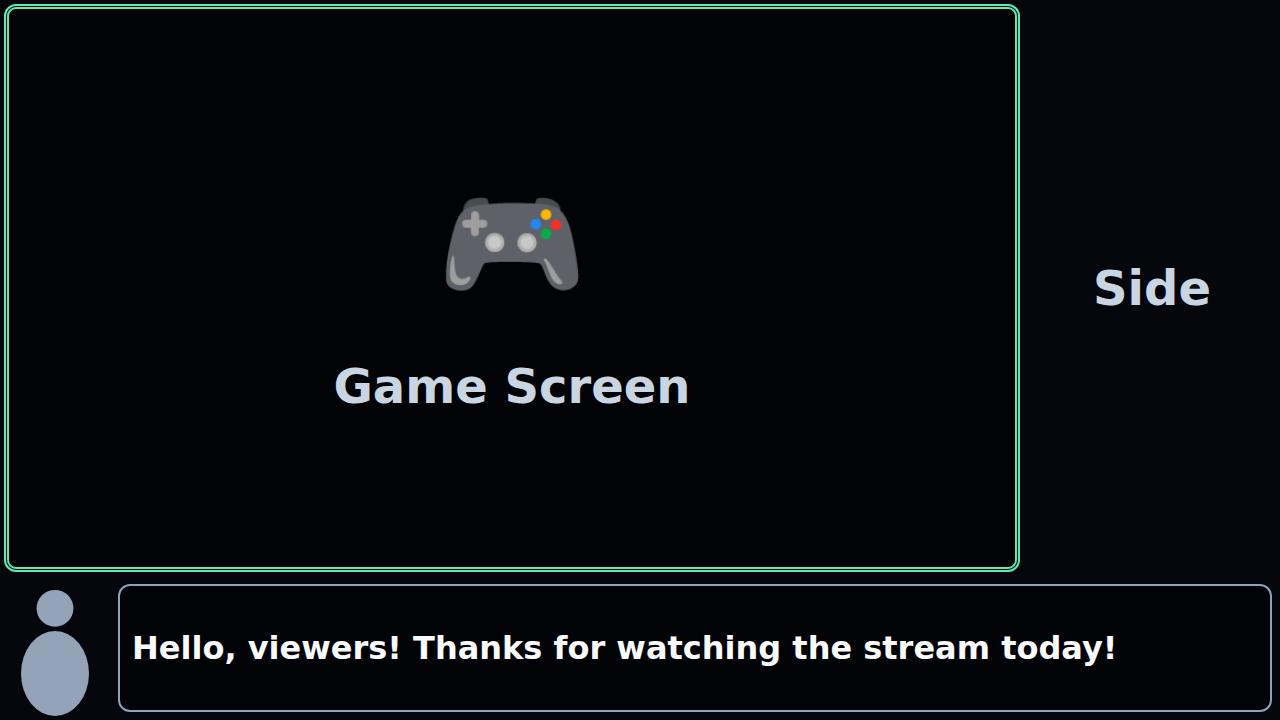
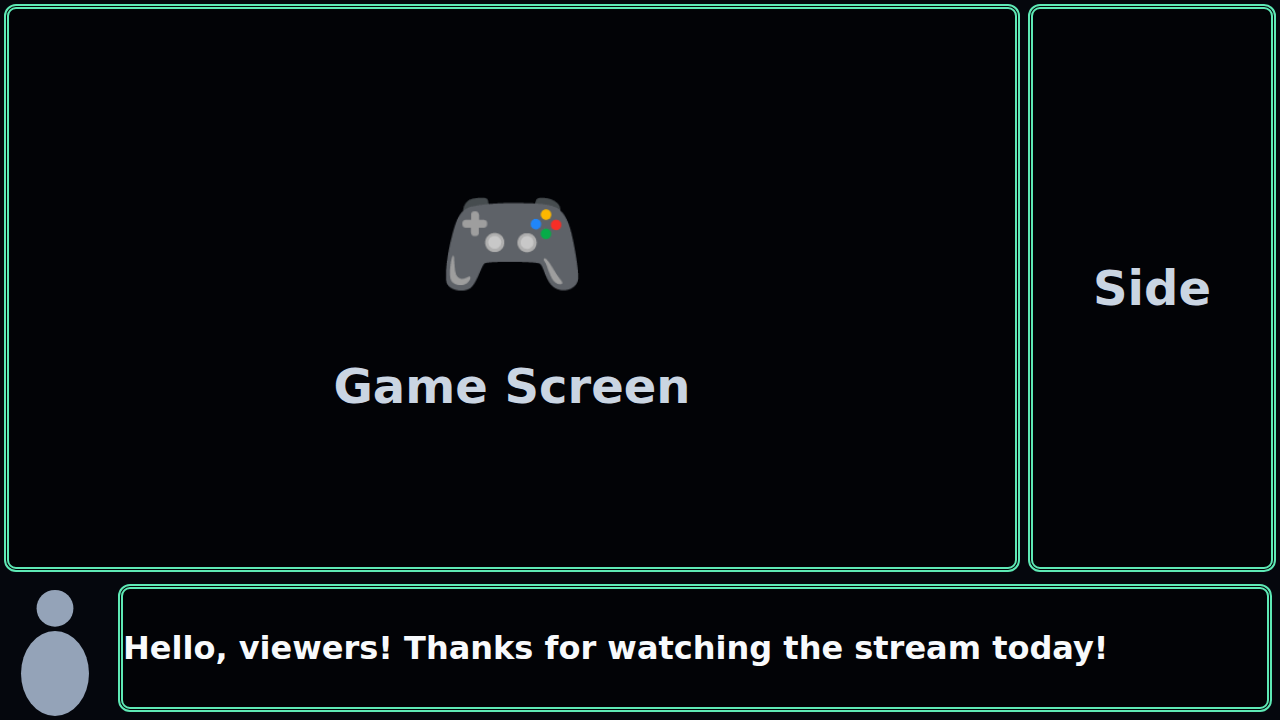
Add Box to side panel and bottom script text in example App.tsx, update screenshot

diff --git a/example/src/App.tsx b/example/src/App.tsx
@@ -33,11 +33,13 @@ export function App() {
 
       {/* Side panel — sidebar info */}
       <Container>
-        <div className="h-full flex flex-col items-center justify-center">
-          <div className="text-[3rem] text-slate-300 text-center">
-            Side
+        <Box>
+          <div className="h-full flex flex-col items-center justify-center">
+            <div className="text-[3rem] text-slate-300 text-center">
+              Side
+            </div>
           </div>
-        </div>
+        </Box>
       </Container>
 
       {/* Bottom panel — character sprite + speech text */}
@@ -47,9 +49,11 @@ export function App() {
             <CharacterSprite src={characterSrc} className="h-full w-full" />
           </div>
           <div className="flex-auto h-full min-h-0 p-1">
-            <div className="h-full flex items-center p-3 bg-black/50 border-2 border-slate-400 rounded-xl overflow-hidden text-[2rem]/[3rem]">
-              Hello, viewers! Thanks for watching the stream today!
-            </div>
+            <Box>
+              <div className="h-full flex items-center overflow-hidden text-[2rem]/[3rem]">
+                Hello, viewers! Thanks for watching the stream today!
+              </div>
+            </Box>
           </div>
         </div>
       </Container>
